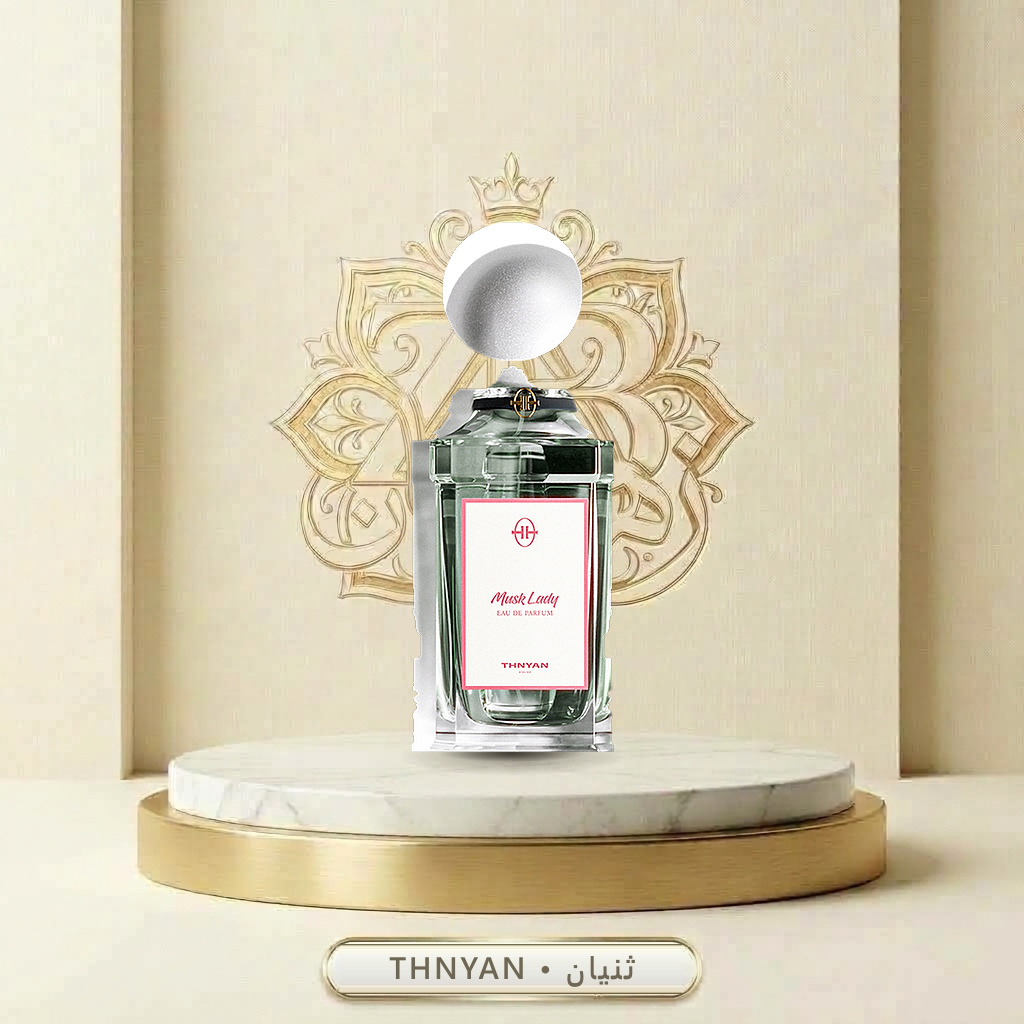
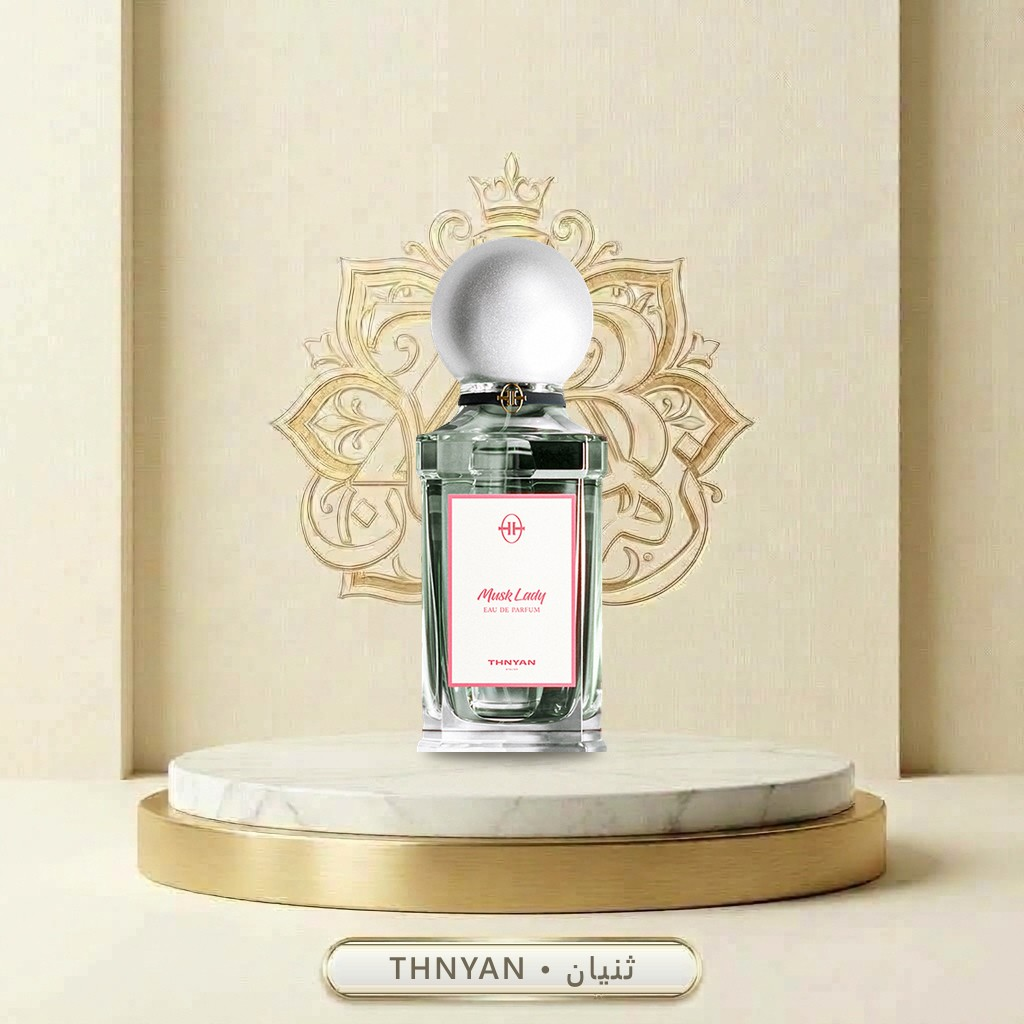
Fix Thnyan Musk Lady image
The source photo has a side shadow and a marble plinth under the bottle,
so the cut-out floated above the podium with a clipped cap. New
cutoutTrimBottom flag drops the plinth; mirror clip and solid glass do the
rest.

Claude-Session: https://claude.ai/code/session_01STVvvRzREoL5Wd8ZBCeqVE

Changed region(s): [[0.375, 0.2188, 0.625, 0.75]]

diff --git a/tools/images/render.py b/tools/images/render.py
@@ -271,7 +271,8 @@ def keep_largest(alpha):
     return np.where(keep, alpha, 0)
 
 
-def cutout(img, mirror=False, solid=False, mirror_fill_=False, body_clip=None, largest=False):
+def cutout(img, mirror=False, solid=False, mirror_fill_=False, body_clip=None, largest=False,
+           trim_bottom=None):
     from rembg import remove
     img.thumbnail((1200, 1200), Image.LANCZOS)
     rgb = flatten(img)
@@ -296,6 +297,11 @@ def cutout(img, mirror=False, solid=False, mirror_fill_=False, body_clip=None, l
     if solid:
         alpha = solidify(alpha)
         cut = rgb.convert("RGBA")  # the model blanks colours it dropped; use the photo's
+    if trim_bottom:
+        # Drop a stand or plinth the bottle was photographed on.
+        rows = np.where(alpha.max(axis=1) > 64)[0]
+        if len(rows):
+            alpha[rows[-1] - int((rows[-1] - rows[0]) * trim_bottom):] = 0
     cut.putalpha(Image.fromarray(alpha.clip(0, 255).astype(np.uint8)))
     cut = defringe(cut)
     return cut.crop(cut.getbbox()), {"reflectionRemoved": line is not None, **cut_metrics(alpha)}
@@ -331,7 +337,8 @@ def showcase(item, house):
                        solid=bool(item.get("cutoutSolid")),
                        mirror_fill_=bool(item.get("cutoutMirrorFill")),
                        body_clip=item.get("cutoutClipBodyFrom"),
-                       largest=bool(item.get("cutoutKeepLargest")))
+                       largest=bool(item.get("cutoutKeepLargest")),
+                       trim_bottom=item.get("cutoutTrimBottom"))
     bg = Image.open(IMAGES / HOUSES[house][2]).convert("RGBA").resize((SIZE, SIZE), Image.LANCZOS)
     scale = min(BOTTLE_BOX[0] / cut.width, BOTTLE_BOX[1] / cut.height)
     cut = cut.resize((max(1, round(cut.width * scale)), max(1, round(cut.height * scale))), Image.LANCZOS)

diff --git a/tools/images/README.md b/tools/images/README.md
@@ -30,5 +30,6 @@ Some photos need a hint in the catalog entry before rendering:
 - `cutoutMirrorClip: true` trims a shadow or ghost bottle on one side of a symmetric bottle.
 - `cutoutClipBodyFrom: 0.4` does the same for the body only (from 40% of the height down), keeping an asymmetric cap.
 - `cutoutKeepLargest: true` drops props lying next to the bottle (wood chips, petals).
+- `cutoutTrimBottom: 0.08` cuts off a stand or plinth the bottle was photographed on (fraction of the height).
 
 After rendering, run `python tools/images/thumbs.py` to refresh the card thumbnails.
